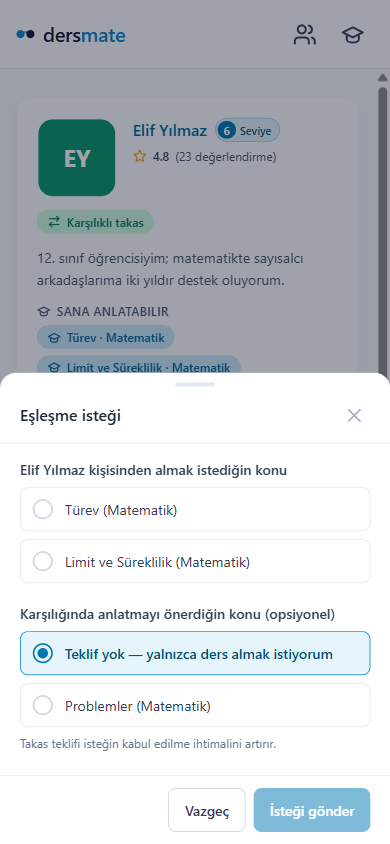
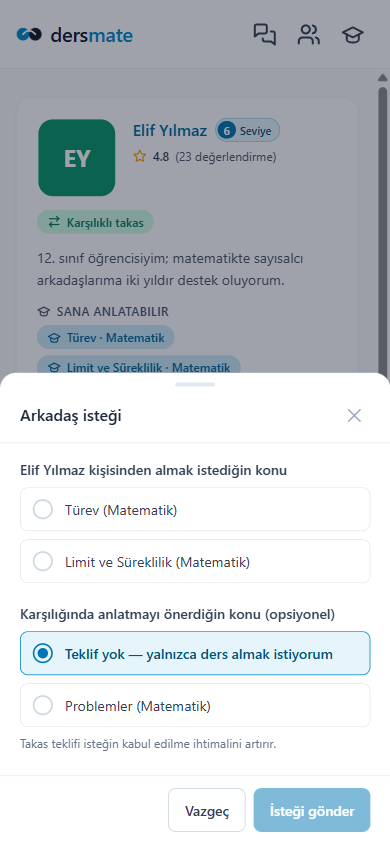
Belgeler gerçeğe çekildi: api.js farkı üç değil 4'e 6 metot, README görüntüsü "Eşleşme isteği" gösteriyordu
1. CLAUDE.md, api.js yüzeyinde "bilinçli farklı üç metot" olduğunu söylüyordu ve
   gerekçe olarak <Image source={{uri, headers}}> gösteriyordu. Web ve mobil api
   nesnelerindeki metot adları karşılaştırıldı (web 78, mobil 80). Yalnızca web'de 4
   metot var: proofContentUrl, avatarObjectUrl, adminProofContentUrl,
   adminTeacherDocument. Yalnızca mobilde 6 metot var: proofImageSource,
   avatarImageSource, rememberLocalAvatar, adminProofImageSource,
   adminTeacherDocumentSource, teacherDocumentSource. Aynı 4/6 origin/main'de de vardı,
   yani sorun dalda başlamadı; ama dal bu bölümü düzenledi ve iddia orada duruyordu.
   Bir sonraki senkronda "üç fark" bekleyen ajan kalan üçünü senkron hatası sanıp web
   adına "düzeltebilirdi". Gerekçe de aynı dosyanın ⛔ kuralıyla çelişiyordu: RN Image
   başlığı göndermiyor, baytlar axios ile indirilip data URI yapılıyor (YetkiliGorsel).
   Liste tabloya çevrildi ve gerekçe düzeltildi.

2. README'de başlık "Arkadaş isteği" olmuştu ama altındaki docs/ekranlar/
   eslesme-istegi.png (29 Ağustos) alt sayfayı "Eşleşme isteği" başlığıyla
   gösteriyordu. Uygulamadaki modalın başlığı artık "Arkadaş isteği"
   (EslesmeIstegiModali). Görüntü öncekiyle aynı yoldan yeniden alındı: önizlemeli web
   export, 390×844, Akış'taki ilk kartın isteği. Dosya adı korundu, çünkü README ona
   bağlı. Diğer görüntüler eski logoyu taşıyor; onlar bu işin kapsamında değil.

diff --git a/CLAUDE.md b/CLAUDE.md
@@ -368,10 +368,22 @@ baseline ileri kalırsa gerçek bir fark hiç görünmez.
 - Web #25 (`af0e531`), dar ekran menü çekmecesinin kendi perdesinin altında kalması:
   web'in hamburger menüsü (`Layout.jsx`). Mobilde menü yok, gezinme sekme çubuğundan.
 
-⚠ `api.js` yüzeyini karşılaştırmak için metot adlarını çıkarıp kümeleri karşılaştır;
-mobilde bilinçli olarak FARKLI olan üç metot var (`proofContentUrl` → `proofImageSource`,
-`avatarObjectUrl` → `avatarImageSource`, `adminProofContentUrl` → `adminProofImageSource`)
-— blob/object-URL yerine `<Image source={{uri, headers}}>` kullanıldığı için.
+⚠ `api.js` yüzeyini karşılaştırmak için metot adlarını çıkarıp kümeleri karşılaştır.
+Bilinçli fark **4 web ↔ 6 mobil** (2026-09-11 ölçümü: web 78, mobil 80 metot):
+
+| web | mobil |
+|---|---|
+| `proofContentUrl` | `proofImageSource` |
+| `avatarObjectUrl` | `avatarImageSource` + `rememberLocalAvatar` (yalnızca mobil) |
+| `adminProofContentUrl` | `adminProofImageSource` |
+| `adminTeacherDocument` | `adminTeacherDocumentSource` |
+| — | `teacherDocumentSource` (kendi belgesini geri okuma; web'de karşılığı yok) |
+
+Gerekçe: web baytları blob olarak indirip object URL'e çeviriyor, RN'de
+`URL.createObjectURL` yok. Mobil `*Source` metotları yalnızca `{ yol }` döndürüyor;
+baytları `authedImageDataUri` axios ile indirip data URI yapıyor (`YetkiliGorsel`).
+`<Image source={{uri, headers}}>` DEĞİL, yukarıdaki ⛔'ye bak. Listede olmayan bir fark
+senkron hatasıdır.
 
 ⚠ `verifyEmail` İKİ ARGÜMAN ALIYOR (`email`, `code`) — tek argümanlı token sürümü
 2 Eylül'de sunucudan kalktı. Bu, senkron gecikmesinin en pahalı örneği: sunucu
